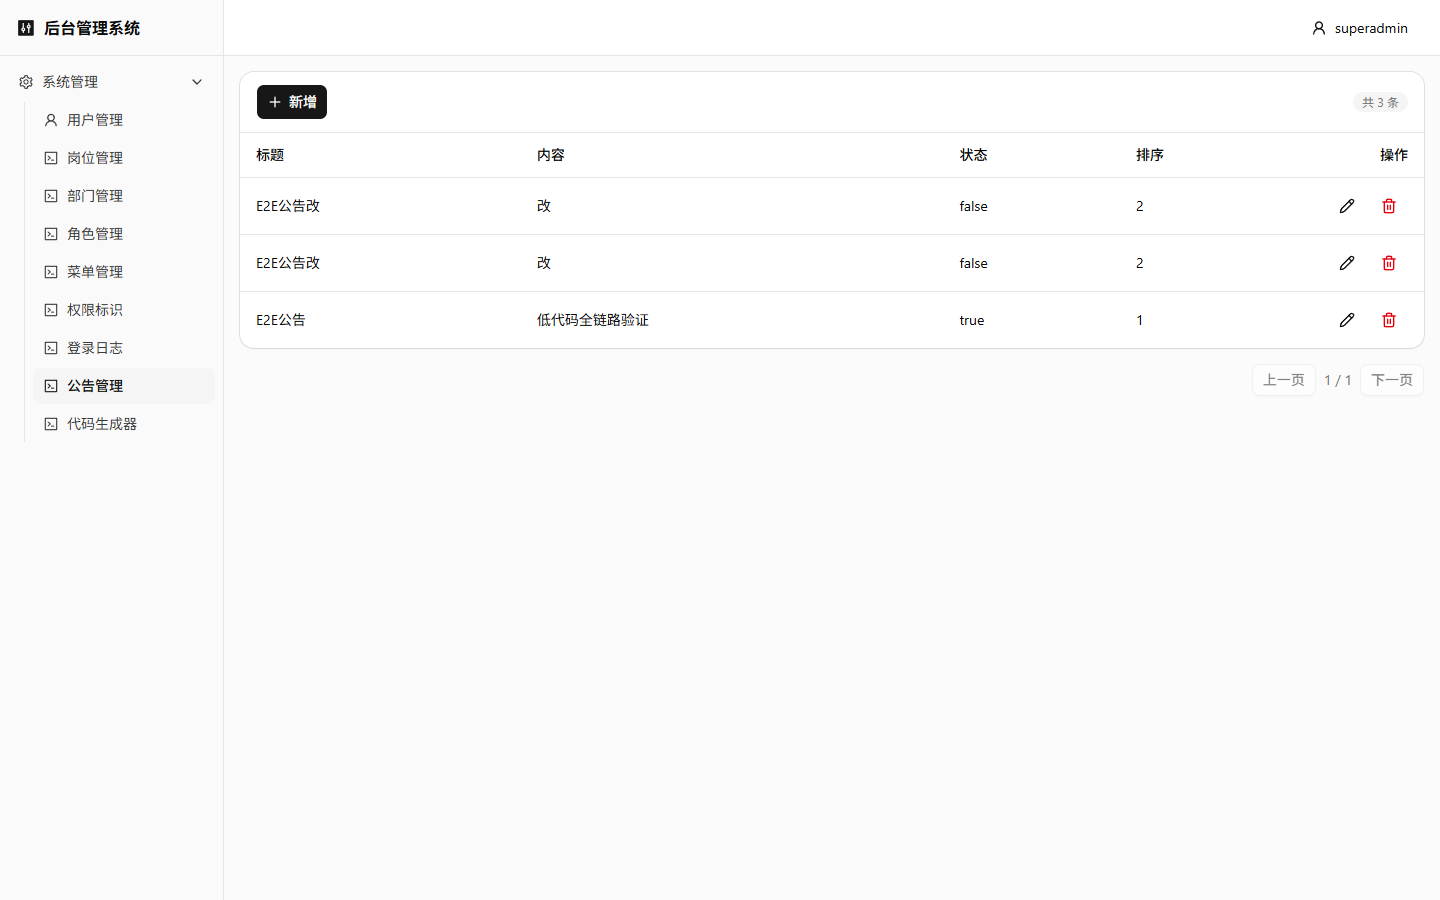
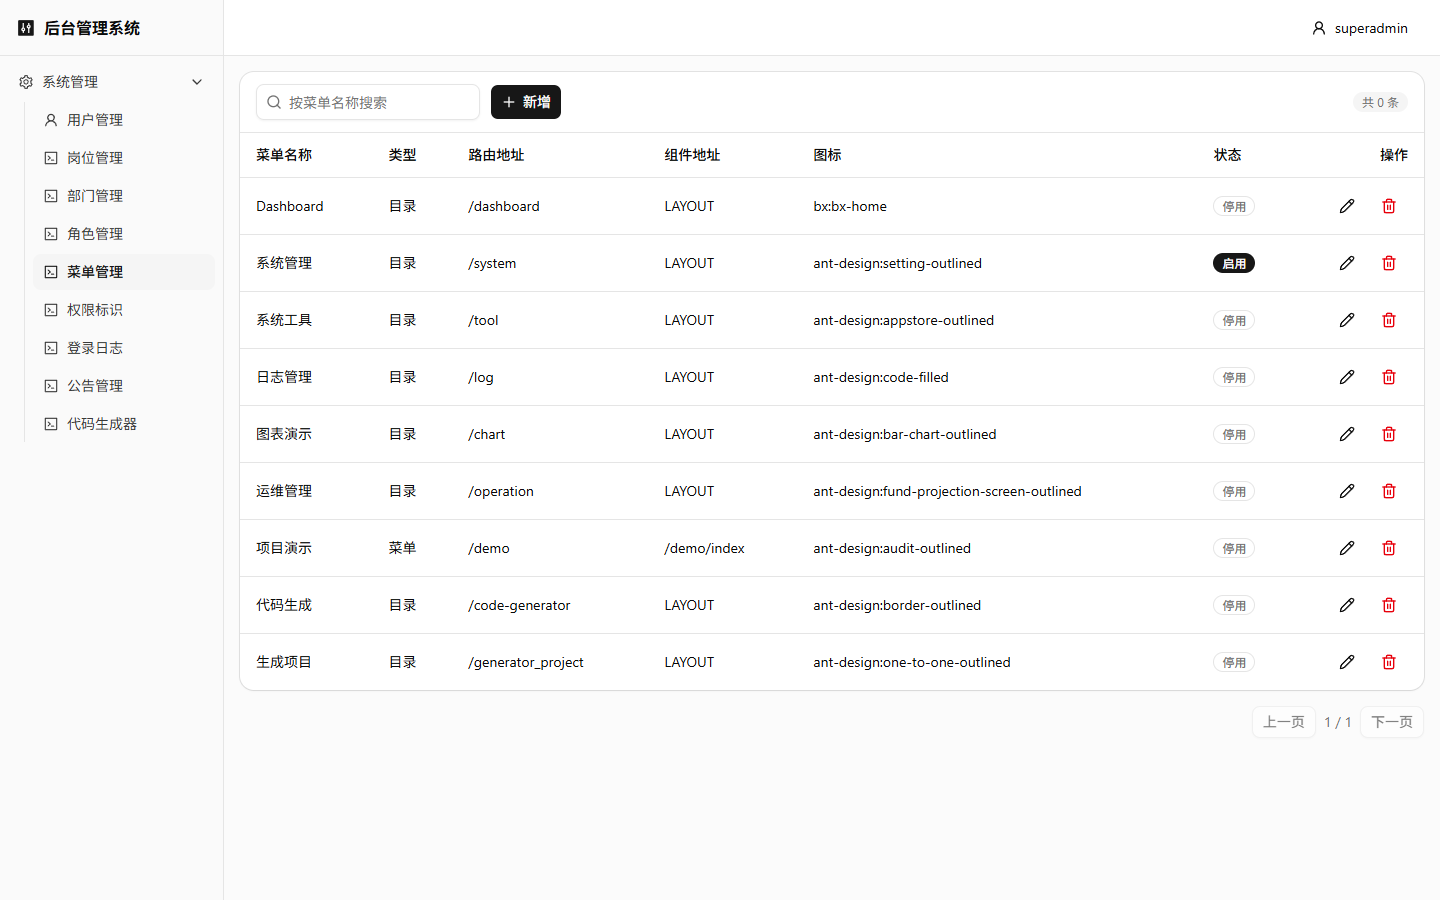
fix(ui): 统一组件当前状态的 data-state 属性使用
- 将 dialog、dropdown-menu、select、switch、tabs 和 tooltip 组件中旧的 data-open/data-closed 属性替换为规范的 data-[state=open]/data-[state=closed]
- 规范了 switch 组件的选择器状态，改用 data-[state=checked] 和 data-[state=unchecked]
- 修正 tabs 组件中 data-active 状态属性为 data-[state=active]
- 实现状态相关动画和样式绑定的统一，提升维护性和可读性
- 优化部分 className 中状态条件的写法，确保与 Radix UI 标准状态保持一致

diff --git a/src/components/ui/dropdown-menu.tsx b/src/components/ui/dropdown-menu.tsx
@@ -41,7 +41,7 @@ function DropdownMenuContent({
         data-slot="dropdown-menu-content"
         sideOffset={sideOffset}
         align={align}
-        className={cn("z-50 max-h-(--radix-dropdown-menu-content-available-height) w-(--radix-dropdown-menu-trigger-width) min-w-32 origin-(--radix-dropdown-menu-content-transform-origin) overflow-x-hidden overflow-y-auto rounded-md bg-popover p-1 text-popover-foreground shadow-md ring-1 ring-foreground/10 duration-100 data-[side=bottom]:slide-in-from-top-2 data-[side=left]:slide-in-from-right-2 data-[side=right]:slide-in-from-left-2 data-[side=top]:slide-in-from-bottom-2 data-[state=closed]:overflow-hidden data-open:animate-in data-open:fade-in-0 data-open:zoom-in-95 data-closed:animate-out data-closed:fade-out-0 data-closed:zoom-out-95", className )}
+        className={cn("z-50 max-h-(--radix-dropdown-menu-content-available-height) w-(--radix-dropdown-menu-trigger-width) min-w-32 origin-(--radix-dropdown-menu-content-transform-origin) overflow-x-hidden overflow-y-auto rounded-md bg-popover p-1 text-popover-foreground shadow-md ring-1 ring-foreground/10 duration-100 data-[side=bottom]:slide-in-from-top-2 data-[side=left]:slide-in-from-right-2 data-[side=right]:slide-in-from-left-2 data-[side=top]:slide-in-from-bottom-2 data-[state=closed]:overflow-hidden data-[state=open]:animate-in data-[state=open]:fade-in-0 data-[state=open]:zoom-in-95 data-[state=closed]:animate-out data-[state=closed]:fade-out-0 data-[state=closed]:zoom-out-95", className )}
         {...props}
       />
     </DropdownMenuPrimitive.Portal>
@@ -224,7 +224,7 @@ function DropdownMenuSubTrigger({
       data-slot="dropdown-menu-sub-trigger"
       data-inset={inset}
       className={cn(
-        "flex cursor-default items-center gap-2 rounded-sm px-2 py-1.5 text-sm outline-hidden select-none focus:bg-accent focus:text-accent-foreground not-data-[variant=destructive]:focus:**:text-accent-foreground data-inset:pl-8 data-open:bg-accent data-open:text-accent-foreground [&_svg]:pointer-events-none [&_svg]:shrink-0 [&_svg:not([class*='size-'])]:size-4",
+        "flex cursor-default items-center gap-2 rounded-sm px-2 py-1.5 text-sm outline-hidden select-none focus:bg-accent focus:text-accent-foreground not-data-[variant=destructive]:focus:**:text-accent-foreground data-inset:pl-8 data-[state=open]:bg-accent data-[state=open]:text-accent-foreground [&_svg]:pointer-events-none [&_svg]:shrink-0 [&_svg:not([class*='size-'])]:size-4",
         className
       )}
       {...props}
@@ -242,7 +242,7 @@ function DropdownMenuSubContent({
   return (
     <DropdownMenuPrimitive.SubContent
       data-slot="dropdown-menu-sub-content"
-      className={cn("z-50 min-w-[96px] origin-(--radix-dropdown-menu-content-transform-origin) overflow-hidden rounded-md bg-popover p-1 text-popover-foreground shadow-lg ring-1 ring-foreground/10 duration-100 data-[side=bottom]:slide-in-from-top-2 data-[side=left]:slide-in-from-right-2 data-[side=right]:slide-in-from-left-2 data-[side=top]:slide-in-from-bottom-2 data-open:animate-in data-open:fade-in-0 data-open:zoom-in-95 data-closed:animate-out data-closed:fade-out-0 data-closed:zoom-out-95", className )}
+      className={cn("z-50 min-w-[96px] origin-(--radix-dropdown-menu-content-transform-origin) overflow-hidden rounded-md bg-popover p-1 text-popover-foreground shadow-lg ring-1 ring-foreground/10 duration-100 data-[side=bottom]:slide-in-from-top-2 data-[side=left]:slide-in-from-right-2 data-[side=right]:slide-in-from-left-2 data-[side=top]:slide-in-from-bottom-2 data-[state=open]:animate-in data-[state=open]:fade-in-0 data-[state=open]:zoom-in-95 data-[state=closed]:animate-out data-[state=closed]:fade-out-0 data-[state=closed]:zoom-out-95", className )}
       {...props}
     />
   )

diff --git a/src/components/ui/tabs.tsx b/src/components/ui/tabs.tsx
@@ -63,10 +63,10 @@ function TabsTrigger({
     <TabsPrimitive.Trigger
       data-slot="tabs-trigger"
       className={cn(
-        "relative inline-flex h-[calc(100%-1px)] flex-1 items-center justify-center gap-1.5 rounded-md border border-transparent px-2 py-1 text-sm font-medium whitespace-nowrap text-foreground/60 transition-all group-data-vertical/tabs:w-full group-data-vertical/tabs:justify-start hover:text-foreground focus-visible:border-ring focus-visible:ring-[3px] focus-visible:ring-ring/50 focus-visible:outline-1 focus-visible:outline-ring disabled:pointer-events-none disabled:opacity-50 has-data-[icon=inline-end]:pr-1.5 has-data-[icon=inline-start]:pl-1.5 dark:text-muted-foreground dark:hover:text-foreground group-data-[variant=default]/tabs-list:data-active:shadow-sm group-data-[variant=line]/tabs-list:data-active:shadow-none [&_svg]:pointer-events-none [&_svg]:shrink-0 [&_svg:not([class*='size-'])]:size-4",
-        "group-data-[variant=line]/tabs-list:bg-transparent group-data-[variant=line]/tabs-list:data-active:bg-transparent dark:group-data-[variant=line]/tabs-list:data-active:border-transparent dark:group-data-[variant=line]/tabs-list:data-active:bg-transparent",
-        "data-active:bg-background data-active:text-foreground dark:data-active:border-input dark:data-active:bg-input/30 dark:data-active:text-foreground",
-        "after:absolute after:bg-foreground after:opacity-0 after:transition-opacity group-data-horizontal/tabs:after:inset-x-0 group-data-horizontal/tabs:after:bottom-[-5px] group-data-horizontal/tabs:after:h-0.5 group-data-vertical/tabs:after:inset-y-0 group-data-vertical/tabs:after:-right-1 group-data-vertical/tabs:after:w-0.5 group-data-[variant=line]/tabs-list:data-active:after:opacity-100",
+        "relative inline-flex h-[calc(100%-1px)] flex-1 items-center justify-center gap-1.5 rounded-md border border-transparent px-2 py-1 text-sm font-medium whitespace-nowrap text-foreground/60 transition-all group-data-vertical/tabs:w-full group-data-vertical/tabs:justify-start hover:text-foreground focus-visible:border-ring focus-visible:ring-[3px] focus-visible:ring-ring/50 focus-visible:outline-1 focus-visible:outline-ring disabled:pointer-events-none disabled:opacity-50 has-data-[icon=inline-end]:pr-1.5 has-data-[icon=inline-start]:pl-1.5 dark:text-muted-foreground dark:hover:text-foreground group-data-[variant=default]/tabs-list:data-[state=active]:shadow-sm group-data-[variant=line]/tabs-list:data-[state=active]:shadow-none [&_svg]:pointer-events-none [&_svg]:shrink-0 [&_svg:not([class*='size-'])]:size-4",
+        "group-data-[variant=line]/tabs-list:bg-transparent group-data-[variant=line]/tabs-list:data-[state=active]:bg-transparent dark:group-data-[variant=line]/tabs-list:data-[state=active]:border-transparent dark:group-data-[variant=line]/tabs-list:data-[state=active]:bg-transparent",
+        "data-[state=active]:bg-background data-[state=active]:text-foreground dark:data-[state=active]:border-input dark:data-[state=active]:bg-input/30 dark:data-[state=active]:text-foreground",
+        "after:absolute after:bg-foreground after:opacity-0 after:transition-opacity group-data-horizontal/tabs:after:inset-x-0 group-data-horizontal/tabs:after:bottom-[-5px] group-data-horizontal/tabs:after:h-0.5 group-data-vertical/tabs:after:inset-y-0 group-data-vertical/tabs:after:-right-1 group-data-vertical/tabs:after:w-0.5 group-data-[variant=line]/tabs-list:data-[state=active]:after:opacity-100",
         className
       )}
       {...props}

diff --git a/src/components/ui/switch.tsx b/src/components/ui/switch.tsx
@@ -15,14 +15,14 @@ function Switch({
       data-slot="switch"
       data-size={size}
       className={cn(
-        "peer group/switch relative inline-flex shrink-0 items-center rounded-full border border-transparent shadow-xs transition-all outline-none after:absolute after:-inset-x-3 after:-inset-y-2 focus-visible:border-ring focus-visible:ring-3 focus-visible:ring-ring/50 aria-invalid:border-destructive aria-invalid:ring-3 aria-invalid:ring-destructive/20 data-[size=default]:h-[18.4px] data-[size=default]:w-[32px] data-[size=sm]:h-[14px] data-[size=sm]:w-[24px] dark:aria-invalid:border-destructive/50 dark:aria-invalid:ring-destructive/40 data-checked:bg-primary data-unchecked:bg-input dark:data-unchecked:bg-input/80 data-disabled:cursor-not-allowed data-disabled:opacity-50",
+        "peer group/switch relative inline-flex shrink-0 items-center rounded-full border border-transparent shadow-xs transition-all outline-none after:absolute after:-inset-x-3 after:-inset-y-2 focus-visible:border-ring focus-visible:ring-3 focus-visible:ring-ring/50 aria-invalid:border-destructive aria-invalid:ring-3 aria-invalid:ring-destructive/20 data-[size=default]:h-[18.4px] data-[size=default]:w-[32px] data-[size=sm]:h-[14px] data-[size=sm]:w-[24px] dark:aria-invalid:border-destructive/50 dark:aria-invalid:ring-destructive/40 data-[state=checked]:bg-primary data-[state=unchecked]:bg-input dark:data-[state=unchecked]:bg-input/80 disabled:cursor-not-allowed disabled:opacity-50",
         className
       )}
       {...props}
     >
       <SwitchPrimitive.Thumb
         data-slot="switch-thumb"
-        className="pointer-events-none block rounded-full bg-background ring-0 transition-transform group-data-[size=default]/switch:size-4 group-data-[size=sm]/switch:size-3 group-data-[size=default]/switch:data-checked:translate-x-[calc(100%-2px)] group-data-[size=sm]/switch:data-checked:translate-x-[calc(100%-2px)] dark:data-checked:bg-primary-foreground group-data-[size=default]/switch:data-unchecked:translate-x-0 group-data-[size=sm]/switch:data-unchecked:translate-x-0 dark:data-unchecked:bg-foreground"
+        className="pointer-events-none block rounded-full bg-background ring-0 transition-transform group-data-[size=default]/switch:size-4 group-data-[size=sm]/switch:size-3 group-data-[size=default]/switch:data-[state=checked]:translate-x-[calc(100%-2px)] group-data-[size=sm]/switch:data-[state=checked]:translate-x-[calc(100%-2px)] dark:data-[state=checked]:bg-primary-foreground group-data-[size=default]/switch:data-[state=unchecked]:translate-x-0 group-data-[size=sm]/switch:data-[state=unchecked]:translate-x-0 dark:data-[state=unchecked]:bg-foreground"
       />
     </SwitchPrimitive.Root>
   )

diff --git a/src/components/ui/select.tsx b/src/components/ui/select.tsx
@@ -69,7 +69,7 @@ function SelectContent({
       <SelectPrimitive.Content
         data-slot="select-content"
         data-align-trigger={position === "item-aligned"}
-        className={cn("relative z-50 max-h-(--radix-select-content-available-height) min-w-36 origin-(--radix-select-content-transform-origin) overflow-x-hidden overflow-y-auto rounded-md bg-popover text-popover-foreground shadow-md ring-1 ring-foreground/10 duration-100 data-[align-trigger=true]:animate-none data-[side=bottom]:slide-in-from-top-2 data-[side=left]:slide-in-from-right-2 data-[side=right]:slide-in-from-left-2 data-[side=top]:slide-in-from-bottom-2 data-open:animate-in data-open:fade-in-0 data-open:zoom-in-95 data-closed:animate-out data-closed:fade-out-0 data-closed:zoom-out-95", position ==="popper"&&"data-[side=bottom]:translate-y-1 data-[side=left]:-translate-x-1 data-[side=right]:translate-x-1 data-[side=top]:-translate-y-1", className )}
+        className={cn("relative z-50 max-h-(--radix-select-content-available-height) min-w-36 origin-(--radix-select-content-transform-origin) overflow-x-hidden overflow-y-auto rounded-md bg-popover text-popover-foreground shadow-md ring-1 ring-foreground/10 duration-100 data-[align-trigger=true]:animate-none data-[side=bottom]:slide-in-from-top-2 data-[side=left]:slide-in-from-right-2 data-[side=right]:slide-in-from-left-2 data-[side=top]:slide-in-from-bottom-2 data-[state=open]:animate-in data-[state=open]:fade-in-0 data-[state=open]:zoom-in-95 data-[state=closed]:animate-out data-[state=closed]:fade-out-0 data-[state=closed]:zoom-out-95", position ==="popper"&&"data-[side=bottom]:translate-y-1 data-[side=left]:-translate-x-1 data-[side=right]:translate-x-1 data-[side=top]:-translate-y-1", className )}
         position={position}
         align={align}
         {...props}

diff --git a/src/components/ui/tooltip.tsx b/src/components/ui/tooltip.tsx
@@ -40,7 +40,7 @@ function TooltipContent({
         data-slot="tooltip-content"
         sideOffset={sideOffset}
         className={cn(
-          "z-50 inline-flex w-fit max-w-xs origin-(--radix-tooltip-content-transform-origin) items-center gap-1.5 rounded-md bg-foreground px-3 py-1.5 text-xs text-background has-data-[slot=kbd]:pr-1.5 data-[side=bottom]:slide-in-from-top-2 data-[side=left]:slide-in-from-right-2 data-[side=right]:slide-in-from-left-2 data-[side=top]:slide-in-from-bottom-2 **:data-[slot=kbd]:relative **:data-[slot=kbd]:isolate **:data-[slot=kbd]:z-50 **:data-[slot=kbd]:rounded-sm data-[state=delayed-open]:animate-in data-[state=delayed-open]:fade-in-0 data-[state=delayed-open]:zoom-in-95 data-open:animate-in data-open:fade-in-0 data-open:zoom-in-95 data-closed:animate-out data-closed:fade-out-0 data-closed:zoom-out-95",
+          "z-50 inline-flex w-fit max-w-xs origin-(--radix-tooltip-content-transform-origin) items-center gap-1.5 rounded-md bg-foreground px-3 py-1.5 text-xs text-background has-data-[slot=kbd]:pr-1.5 data-[side=bottom]:slide-in-from-top-2 data-[side=left]:slide-in-from-right-2 data-[side=right]:slide-in-from-left-2 data-[side=top]:slide-in-from-bottom-2 **:data-[slot=kbd]:relative **:data-[slot=kbd]:isolate **:data-[slot=kbd]:z-50 **:data-[slot=kbd]:rounded-sm data-[state=delayed-open]:animate-in data-[state=delayed-open]:fade-in-0 data-[state=delayed-open]:zoom-in-95 data-[state=open]:animate-in data-[state=open]:fade-in-0 data-[state=open]:zoom-in-95 data-[state=closed]:animate-out data-[state=closed]:fade-out-0 data-[state=closed]:zoom-out-95",
           className
         )}
         {...props}

diff --git a/src/components/ui/dialog.tsx b/src/components/ui/dialog.tsx
@@ -39,7 +39,7 @@ function DialogOverlay({
     <DialogPrimitive.Overlay
       data-slot="dialog-overlay"
       className={cn(
-        "fixed inset-0 isolate z-50 bg-black/10 duration-100 supports-backdrop-filter:backdrop-blur-xs data-open:animate-in data-open:fade-in-0 data-closed:animate-out data-closed:fade-out-0",
+        "fixed inset-0 isolate z-50 bg-black/10 duration-100 supports-backdrop-filter:backdrop-blur-xs data-[state=open]:animate-in data-[state=open]:fade-in-0 data-[state=closed]:animate-out data-[state=closed]:fade-out-0",
         className
       )}
       {...props}
@@ -61,7 +61,7 @@ function DialogContent({
       <DialogPrimitive.Content
         data-slot="dialog-content"
         className={cn(
-          "fixed top-1/2 left-1/2 z-50 grid w-full max-w-[calc(100%-2rem)] -translate-x-1/2 -translate-y-1/2 gap-6 rounded-xl bg-popover p-6 text-sm text-popover-foreground ring-1 ring-foreground/10 duration-100 outline-none sm:max-w-md data-open:animate-in data-open:fade-in-0 data-open:zoom-in-95 data-closed:animate-out data-closed:fade-out-0 data-closed:zoom-out-95",
+          "fixed top-1/2 left-1/2 z-50 grid w-full max-w-[calc(100%-2rem)] -translate-x-1/2 -translate-y-1/2 gap-6 rounded-xl bg-popover p-6 text-sm text-popover-foreground ring-1 ring-foreground/10 duration-100 outline-none sm:max-w-md data-[state=open]:animate-in data-[state=open]:fade-in-0 data-[state=open]:zoom-in-95 data-[state=closed]:animate-out data-[state=closed]:fade-out-0 data-[state=closed]:zoom-out-95",
           className
         )}
         {...props}

diff --git a/src/modules/menu/pages/MenuPage.tsx b/src/modules/menu/pages/MenuPage.tsx
@@ -22,6 +22,7 @@ import { SearchInput, TableToolbar, ToolbarCount } from '@/core/components/table
 import { useDict } from '@/core/hooks/use-dict'
 
 
+import { Badge } from '@/components/ui/badge'
 import { Button } from '@/components/ui/button'
 import { Card, CardContent } from '@/components/ui/card'
 import {
@@ -125,6 +126,21 @@ export default function MenuPage() {
 
 
     { accessorKey: 'icon', header: '图标' },
+
+
+
+    {
+      accessorKey: 'status',
+      header: '状态',
+      cell: ({ row }) =>
+        row.original.status ? (
+          <Badge>启用</Badge>
+        ) : (
+          <Badge variant="outline" className="text-muted-foreground">
+            停用
+          </Badge>
+        ),
+    },
 
 
   ]
